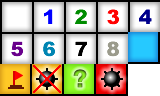
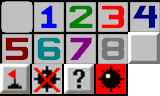
support restarting games

diff --git a/index.html b/index.html
@@ -1,7 +1,7 @@
 <script src="https://cdn.socket.io/socket.io-1.4.5.js"></script>
 <script>
 	var socket = io('98.221.72.60:7865');
-	
+
 	// updated on client, send to server
 	function sendBoardData(data, op) {	
 		// called when tile is clicked or flagged. Send this data to server.
@@ -21,20 +21,17 @@
 		});
 	});
 	
-	/*socket.on('restart', function() {
+	socket.on('restart', function() {
 		game.state.start(states.game);
 	});
 	
 	// only the host should trigger this. im not putting in safeguards though
 	function restartGame() {
 		// empty lobby and have all players rejoin
-		
 		game.state.start(states.game);
-		
 		// tell the server we want to restart. server will call 'restart' for everyone
-		socket.emit('trigger_restart');
-		
-	}*/
+		socket.emit("trigger_restart");
+	}
 	
 	function joinGame() {
 		// "join" function takes a lobby code and a username.
@@ -61,13 +58,8 @@
         <script src="game/counter.js"></script>
 		
 		<script>
-		// figure out how to get this called last
 		socket.on("boardstart", function(data) {
-			// TODO: this isnt being called. figure out why not - possibly to do with the player joining the server & being added to the game\
 			try {
-				console.log(data);
-				//getBoard().getBoard()[0][0].setValue(data[0][0]);
-
 				var xCount = 0;
 				for (var y = 0; y < 24; y++) {
 					while (xCount < 32) {
@@ -76,13 +68,7 @@
 					}
 					xCount = 0;
 				}
-				
-			} catch(e) {
-			}
-			
-			console.log("boardstart triggered");
-			
-			
+			} catch(e) {}
 		});
 	</script>
 </head>
@@ -115,8 +101,8 @@
 	<p>Current Players in Lobby:</p>
 	<div id="playerlist"></div>
 	
-	<p>The game will be displayed here </p>
-	<button type="button" onclick=" ">Restart Game (broken - fixing 2/7/18)</button>
+	<b>WARNING: ONLY CLICK RESTART IF YOU ARE THE HOST!</b><br/>
+	<button type="button" onclick="restartGame()">Restart Game</button>
 	<div id="gameDiv"> </div>
 	<p>Game Timer: (1 block = 1 second)</p>
 	<div id="blocks"></div>	
@@ -126,7 +112,8 @@
 		  <li>Generate the board after the first click</li>
 		  <li>Allow players to hold left click without clicking a tile</li>
 		  <li>Add more minecraft blocks</li>
-		  <li>Restart game button</li>
+		  <li><b>DONE!</b> Add classic minesweeper look</li>
+		  <li><b>DONE!</b> Restart game button</li>
 		  <li>Mine counter</li>
 		  <li>Allow players to drop in late - tile states are not sent over network</li>
 		</ul>

diff --git a/game-server/server.js b/game-server/server.js
@@ -27,6 +27,7 @@ io.on('connection', function(socket) {
 	//  Recieve the initial board from the host. Will not accept from non-hosts
 	socket.on('init_board', function(board) {
 		if (clientmanager.getClientFromSocket(socket.id).isHost) {
+			console.log("recieved board from host");
 			manager.getGameFromID(clientmanager.getClientFromSocket(socket.id).gameid).setBoard(board);
 		}
 	});
@@ -60,8 +61,11 @@ class Game {
 		this.sendBoard();
     }
 	restartGame() {
+		console.log("restartGame() called");
 		this.clients.forEach(function(index) {
-            index.socketObject.emit('restart');
+			if (!index.isHost) {
+				index.socketObject.emit('restart');
+			}
         });
 		this.sendBoard();
 	}
@@ -86,9 +90,9 @@ class Game {
     }
 	// Set the board recieved from the host
 	setBoard(_board) {
-		if (this.board == null) {	// failsafe to ensure only hosts can set the board
+	//	if (this.board == null) {	// failsafe to ensure only hosts can set the board
 			this.board = _board;
-		}
+	//	}
 	}
 	// send initial board to non-hosts when they join
 	sendBoard() {

diff --git a/game/tile.js b/game/tile.js
@@ -70,7 +70,6 @@ var Tile = function (column, row, group) {
         sprite.inputEnabled = false;
         this.onRevealed.dispatch(tile); // send a signal whenever a tile is revealed
     };
-    
     this.flag = function () {
         if (currentState == tile.states.DEFAULT) {
             currentState = tile.states.FLAG;

diff --git a/game/board.js b/game/board.js
@@ -52,8 +52,6 @@ var Board = function (columns, rows, mines) {
 		for (var y = 0; y < rows; y++) {
 			initBoard[y] = new Array();
 			
-			//console.log(board[y][xCount].getValue());
-			
 			while (xCount < 32) {
 				initBoard[y].push(board[y][xCount].getValue());
 				xCount++;
